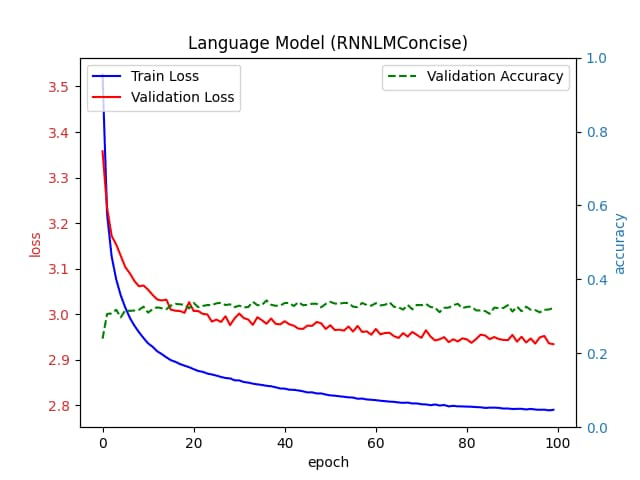
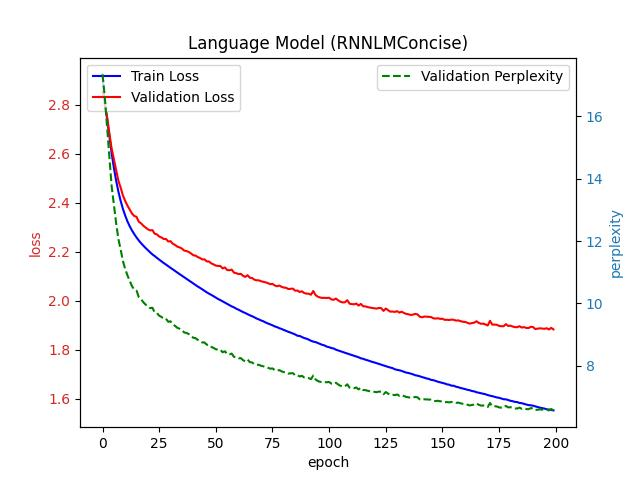
fix[ch9] Correct loss calculation.

diff --git a/chapter-9_recurrent-neural-networks/rnn_concise/rnn_concise.py b/chapter-9_recurrent-neural-networks/rnn_concise/rnn_concise.py
@@ -417,10 +417,12 @@ class Trainer:
         self._model.train()
         for X, y in self._dataset.get_data_loader(train=True):
             X = X.to(device)
-            y_one_hot = self._dataset.vocab.one_hot_encode(y.to(device))
+            y_indices = y.to(device) # shape is (batch_size, num_steps)
 
             y_pred_logits = self._model(X)
-            loss = self._loss_measurer(y_pred_logits, y_one_hot)
+            loss = self._loss_measurer(
+                y_pred_logits.view(-1, y_pred_logits.shape[-1]),
+                y_indices.view(-1))
 
             # Backpropagation
             loss.backward()
@@ -461,14 +463,16 @@ class Validator:
 
         self._model.eval()
         with torch.inference_mode():
-            for X, y in self._dataset.get_data_loader(train=False):
+            for X, y in self._dataset.get_data_loader(train=False, shuffle=False):
                 X = X.to(device)
                 y_indices = y.to(device) # shape is (batch_size, num_steps)
-                y_one_hot = self._dataset.vocab.one_hot_encode(y_indices)
 
                 y_pred_logits = self._model(X)
 
-                total_loss += self._loss_measurer(y_pred_logits, y_one_hot).item()
+                total_loss += self._loss_measurer(
+                    y_pred_logits.view(-1, y_pred_logits.shape[-1]),
+                    y_indices.view(-1)
+                    ).item()
                 num_batches += 1
 
                 y_pred_indices = self.index(y_pred_logits).flatten()
@@ -491,26 +495,26 @@ class MetricsPlotter:
         self._epochs = []
         self._train_losses = []
         self._evaluate_losses = []
-        self._accuracies = []
+        self._perplexities = []
 
     def add(
         self,
         epoch: int,
         train_loss: float,
         validate_loss: float,
-        accuracy: float,
+        perplexity: float,
     ) -> None:
         assert isinstance(train_loss, float), \
             f"Invalid type for train_loss (expected 'float', got {type(train_loss)})"
         assert isinstance(validate_loss, float), \
             f"Invalid type for evaluate_loss (expected 'float', got {type(validate_loss)})"
-        assert isinstance(accuracy, float), \
-            f"Invalid type for accuracy (expected 'float', got {type(accuracy)}"
+        assert isinstance(perplexity, float), \
+            f"Invalid type for accuracy (expected 'float', got {type(perplexity)}"
 
         self._epochs.append(epoch)
         self._train_losses.append(train_loss)
         self._evaluate_losses.append(validate_loss)
-        self._accuracies.append(accuracy)
+        self._perplexities.append(perplexity)
 
     def plot(
         self,
@@ -527,15 +531,15 @@ class MetricsPlotter:
         ax1.tick_params(axis='y', labelcolor='tab:red')
         ax1.legend(loc='upper left')
 
-        # Create a second y-axis for accuracy
+        # Create a second y-axis for perplexity
         ax2 = ax1.twinx()
         # Ensure ax2 is of the same type as ax1 (i.e., matplotlib.axes.Axes)
         # for linter type-checking
         assert isinstance(ax2, type(ax1))
-        ax2.set_ylabel('accuracy', color='tab:blue')
-        ax2.plot(self._epochs, self._accuracies, 'g', label='Validation Accuracy', linestyle='--')
+        ax2.set_ylabel('perplexity', color='tab:blue')
+        ax2.plot(
+            self._epochs, self._perplexities, 'g', label='Validation Perplexity', linestyle='--')
         ax2.tick_params(axis='y', labelcolor='tab:blue')
-        ax2.set_ylim(0, 1.0)
         ax2.legend(loc='upper right')
 
         plt.title(title)
@@ -567,9 +571,10 @@ def main(
 ) -> None:
     batch_size = 1024
     num_steps = 32
-    max_epochs = 100
-    learning_rate = 1
-    weight_decay = 0.0
+    num_hidden_states = 256
+    max_epochs = 200
+    learning_rate = 0.05
+    weight_decay = 1e-5
     prefix = "it has"
     num_pred = 20
     start_sec = time.time()
@@ -580,7 +585,7 @@ def main(
     preview(dataset, num_preview)
 
     # Initialize model, loss, and optimizer
-    model = RNNLMConcise(vocab=dataset.vocab, num_hidden_states=num_steps)
+    model = RNNLMConcise(dataset.vocab, num_hidden_states)
     loss_measurer = nn.CrossEntropyLoss()
     optimizer = optim.SGD(model.parameters(), learning_rate, weight_decay)
 
@@ -596,12 +601,12 @@ def main(
         logger.info("epoch #{}, train_loss = {:.3f}, validate_loss = {:.3f}, "
                     "accuracy = {:.1%}, perplexity = {:.2f}",
                     epoch, train_loss, validate_loss, accuracy, perplexity)
-        plotter.add(epoch, train_loss, validate_loss, accuracy)
+        plotter.add(epoch, train_loss, validate_loss, perplexity)
 
     logger.info("device = {}, elapsed time: {:.1f} seconds", device, time.time() - start_sec)
 
     # Visualize samples (both correct and wrong predictions) from the last epoch
-    plotter.plot(title=f"Language Model ({RNNLMConcise.__name__})", filename="metrics.png")
+    plotter.plot(title=f"Language Model ({RNNLMConcise.__name__})", filename="metrics.jpg")
 
     logger.info("prediction for '{}': '{}'", prefix, model.predict(prefix, num_pred))
     logger.info("done!")
@@ -614,7 +619,7 @@ if __name__ == "__main__":
     main()
 
     # Final output:
-    # epoch #99, train_loss = 2.791, validate_loss = 2.934, accuracy = 32.2%, perplexity = 18.81
-    # device = cuda, elapsed time: 120.4 seconds
-    # prediction for 'it has': ' for have have have '
+    # epoch #199, train_loss = 1.553, validate_loss = 1.883, accuracy = 44.9%, perplexity = 6.58
+    # device = cuda, elapsed time: 238.3 seconds
+    # prediction for 'it has': ' a came to the sun w'
     # done!
